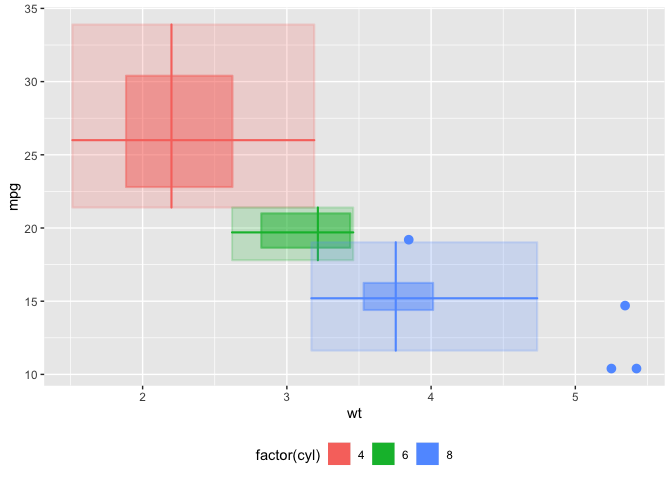
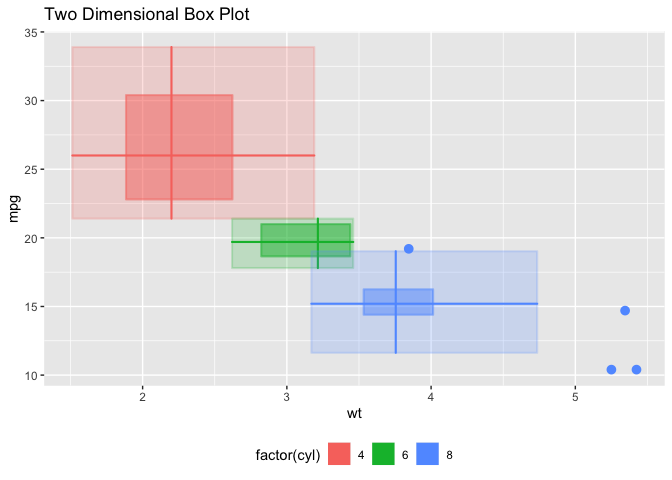
Renamed package to ggBoxes.

diff --git a/README.md b/README.md
@@ -1,14 +1,14 @@
-ggBoxplot2d: Two Dimensional Box and Whisker Plots
+ggBoxes: Two Dimensional Box and Error Plots
 ================
-
-Two Dimensional Box and Whisker Plots
 
 To install the development version of the package, use the `remotes`
 package:
 
 ``` r
-remotes::install_github('jbryer/ggBoxplot2d')
+remotes::install_github('jbryer/ggBoxes')
 ```
+
+## Two Dimensional Box and Whisker Plots
 
 Basic example using the `mtcars` dataset.
 
@@ -16,10 +16,27 @@ Basic example using the `mtcars` dataset.
 library(ggBoxplot2d)
 #> Loading required package: ggplot2
 data(mtcars)
-p <- ggplot(mtcars, aes(x = wt, y = mpg, group = factor(cyl), color = factor(cyl), fill = factor(cyl))) +
+ggplot(mtcars, aes(x = wt, y = mpg, group = factor(cyl),
+                   color = factor(cyl), fill = factor(cyl))) +
     geom_boxplot2d() +
-    theme(legend.position = 'bottom')
-p
+    theme(legend.position = 'bottom') +
+    ggtitle('Two Dimensional Box Plot')
 ```
 
 ![](man/figures/README-boxplot2d_mtcars-1.png)<!-- -->
+
+## Two Dimensional Confidence Intervals (Error Boxes)
+
+``` r
+p <- ggplot(mtcars, aes(x = wt, y = mpg, group = factor(cyl),
+                   color = factor(cyl), fill = factor(cyl))) +
+    geom_errorbox2d() +
+    theme(legend.position = 'bottom') +
+    ggtitle('Two Dimensional Error Plot')
+ggExtra::ggMarginal(p + geom_point(alpha = 0), 
+                    type = 'density', 
+                    groupColour = TRUE, 
+                    groupFill = TRUE)
+```
+
+![](man/figures/README-error2d_mtcars-1.png)<!-- -->
